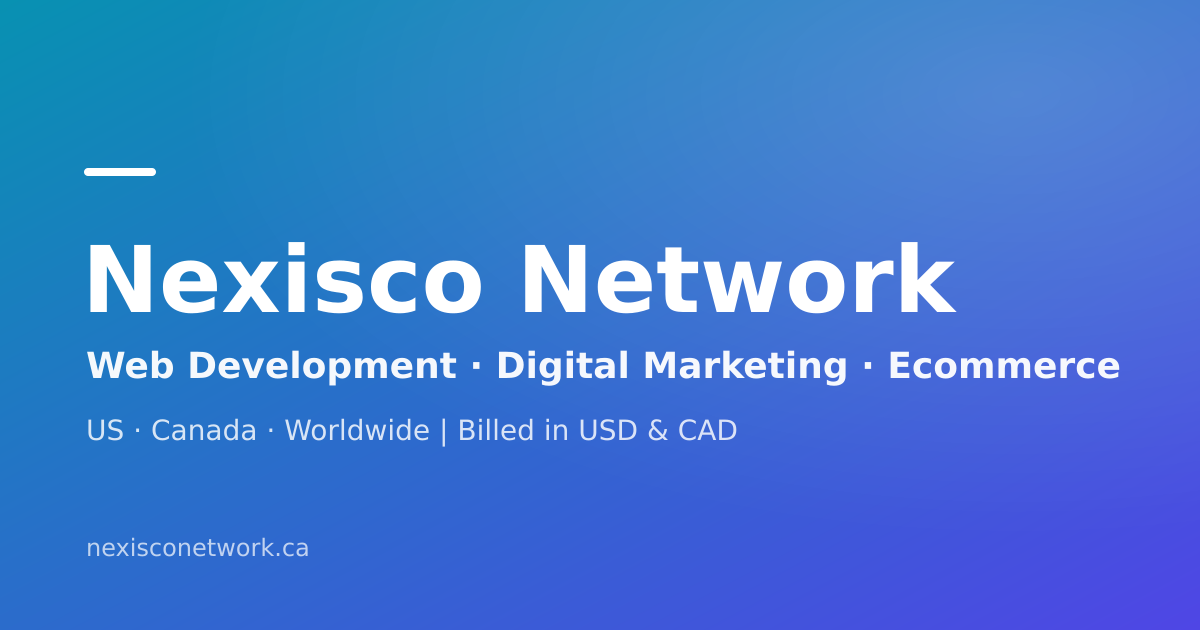
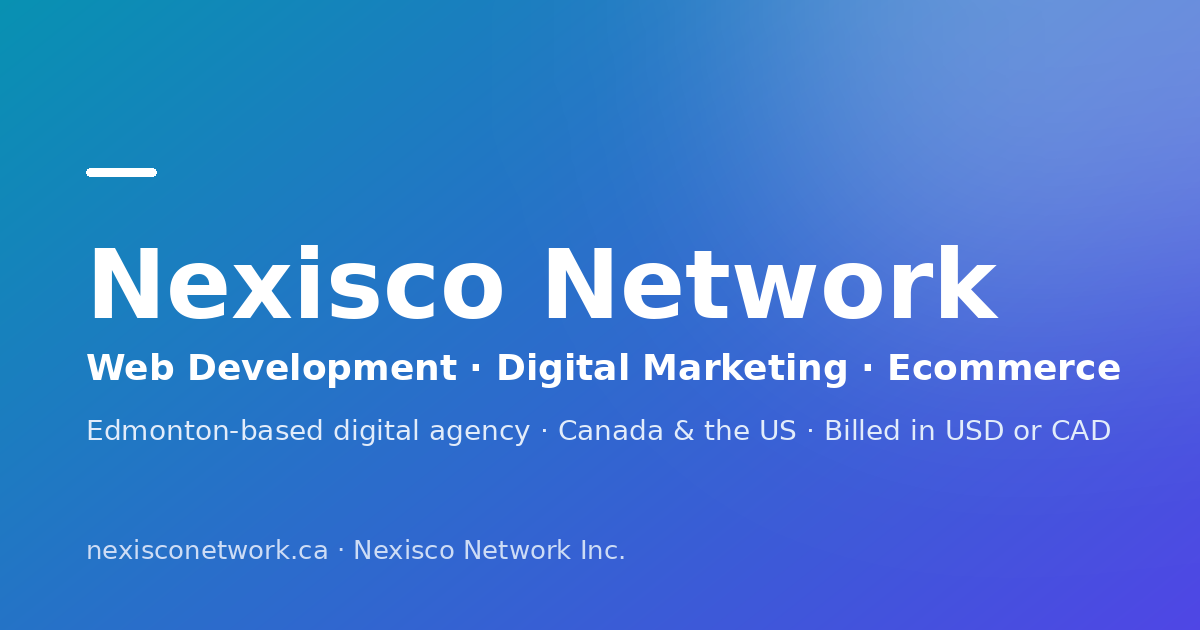
fix(review): corrected share image, people-free heroes, stricter guard
Fixes from the final independent review of the branch.

- og-image.png said "US · Canada · Worldwide | Billed in USD & CAD"; re-rendered
  with the module positioning ("Edmonton-based digital agency · Canada & the US ·
  Billed in USD or CAD") and the legal name; referenced as ?v=2 so social
  caches refresh.
- Homepage hero no longer uses a monitor photo the old portfolio presented as a
  client project; Partners hero no longer shows the same group of people as the
  old "team" photo. Both are people-free decorative images.
- 404/410 pages are noindex with no canonical/og:url; /portfolio 301 keeps its
  query string (gclid/utm); JSON-LD drops paymentAccepted (not a confirmed fact).
- .htaccess: deny whole config/includes/lib/data/pages/partials directories
  (closes the /pages/x.php/extra PATH_INFO bypass); allow 'unsafe-eval' so the
  standard Alpine build can run the FAQ accordions and currency toggle.
- robots.php loads helpers itself; newsletter welcome copy double period; About
  CTA no longer promises "the fastest path to growth"; drop the unused
  config/site-stats.php.
- compliance-check also bans global/worldwide/headquarters positioning, scans
  JSON-LD text, fails on internal links to /portfolio or retired IT URLs and on
  "Disallow: /*".

diff --git a/public_html/partials/head.php b/public_html/partials/head.php
@@ -8,7 +8,8 @@ require_once __DIR__ . '/../includes/seo.php';
 $page_title       = $page_title       ?? 'Nexisco Network — Web Development, Digital Marketing & Ecommerce Agency';
 $page_description = $page_description ?? business('brand_name') . ' is an ' . business('positioning') . ', delivering web development, digital marketing, and ecommerce development.';
 $page_canonical   = $page_canonical   ?? 'https://nexisconetwork.ca' . strtok($_SERVER['REQUEST_URI'] ?? '/', '?');
-$og_image         = $og_image         ?? 'https://nexisconetwork.ca/assets/img/og-image.png';
+$og_image         = $og_image         ?? 'https://nexisconetwork.ca/assets/img/og-image.png?v=2';
+$page_robots      = $page_robots      ?? 'index, follow, max-image-preview:large, max-snippet:-1, max-video-preview:-1';
 $theme_color      = '#0891B2';
 $page_keywords    = $page_keywords    ?? 'web development, web design, digital marketing agency, SEO, PPC, social media marketing, ecommerce development, Shopify, WooCommerce, conversion optimization, branding, Nexisco Network';
 $page_type        = $page_type        ?? 'website'; // override per page (article, service, etc.)
@@ -30,11 +31,13 @@ if (empty($_SESSION['csrf_token'])) {
   <title><?= htmlspecialchars($page_title, ENT_QUOTES, 'UTF-8') ?></title>
   <meta name="description" content="<?= htmlspecialchars($page_description, ENT_QUOTES, 'UTF-8') ?>">
   <meta name="keywords"    content="<?= htmlspecialchars($page_keywords, ENT_QUOTES, 'UTF-8') ?>">
+  <?php if ($page_canonical !== false): /* error pages set false: no canonical for a removed URL */ ?>
   <link rel="canonical"    href="<?= htmlspecialchars($page_canonical, ENT_QUOTES, 'UTF-8') ?>">
+  <?php endif; ?>
   <meta name="author"      content="Nexisco Network">
   <meta name="publisher"   content="Nexisco Network">
-  <meta name="robots"      content="index, follow, max-image-preview:large, max-snippet:-1, max-video-preview:-1">
-  <meta name="googlebot"   content="index, follow, max-image-preview:large, max-snippet:-1, max-video-preview:-1">
+  <meta name="robots"      content="<?= htmlspecialchars($page_robots, ENT_QUOTES, 'UTF-8') ?>">
+  <meta name="googlebot"   content="<?= htmlspecialchars($page_robots, ENT_QUOTES, 'UTF-8') ?>">
   <meta name="bingbot"     content="index, follow">
   <meta name="rating"      content="general">
   <meta name="format-detection" content="telephone=no">
@@ -48,7 +51,9 @@ if (empty($_SESSION['csrf_token'])) {
   <meta property="og:site_name"   content="Nexisco Network">
   <meta property="og:title"       content="<?= htmlspecialchars($page_title, ENT_QUOTES, 'UTF-8') ?>">
   <meta property="og:description" content="<?= htmlspecialchars($page_description, ENT_QUOTES, 'UTF-8') ?>">
+  <?php if ($page_canonical !== false): ?>
   <meta property="og:url"         content="<?= htmlspecialchars($page_canonical, ENT_QUOTES, 'UTF-8') ?>">
+  <?php endif; ?>
   <meta property="og:image"       content="<?= htmlspecialchars($og_image, ENT_QUOTES, 'UTF-8') ?>">
   <meta property="og:image:secure_url" content="<?= htmlspecialchars($og_image, ENT_QUOTES, 'UTF-8') ?>">
   <meta property="og:image:type"  content="image/png">

diff --git a/public_html/includes/seo.php b/public_html/includes/seo.php
@@ -25,7 +25,7 @@ class Seo {
                            . ', delivering web development, digital marketing, and ecommerce development.',
             'url'         => $url,
             'logo'        => $url . '/assets/img/logo.png',
-            'image'       => $url . '/assets/img/og-image.png',
+            'image'       => $url . '/assets/img/og-image.png?v=2',
             'telephone'   => business('phone_e164'),
             'email'       => business('email'),
             'foundingDate' => business('founding_date'),
@@ -50,7 +50,6 @@ class Seo {
             ]],
             'areaServed'         => self::area_served(),
             'currenciesAccepted' => 'USD, CAD',
-            'paymentAccepted'    => 'Credit Card, Debit Card, Online Payment, Bank Transfer',
             'hasOfferCatalog' => [
                 '@type' => 'OfferCatalog',
                 'name'  => 'Digital Services',

diff --git a/public_html/pages/partners.php b/public_html/pages/partners.php
@@ -12,7 +12,7 @@ require_once __DIR__ . '/../partials/navbar.php';
 <!-- ── Hero ──────────────────────────────────────────────────────── -->
 <section class="relative min-h-[60vh] flex items-end overflow-hidden grain" style="background:var(--bg-primary)">
   <div class="bg-media-wrapper" aria-hidden="true">
-    <img src="https://images.unsplash.com/photo-1521737711867-e3b97375f902?w=1920&q=60"
+    <img src="https://images.unsplash.com/photo-1460925895917-afdab827c52f?w=1920&q=60"
          alt="" loading="eager"
          style="opacity:0.55;width:100%;height:100%;object-fit:cover" data-parallax="-20">
     <div style="position:absolute;inset:0;background:linear-gradient(to bottom,rgba(250,251,252,0.5) 0%,rgba(250,251,252,0.97) 100%)"></div>

diff --git a/public_html/api/newsletter.php b/public_html/api/newsletter.php
@@ -47,7 +47,7 @@ $consent_ip        = client_ip();
 // Send welcome email (stub)
 $welcome = mail_template([
     'title'    => 'Welcome to Nexisco Network Updates',
-    'body'     => "<p>Thanks for subscribing! You'll receive web, marketing, and ecommerce insights and occasional offers from " . e(business('legal_name')) . ".</p>
+    'body'     => "<p>Thanks for subscribing! You'll receive web, marketing, and ecommerce insights and occasional offers from " . e(business('legal_name')) . "</p>
     <p>As promised — no spam. You can unsubscribe any time via the link below.</p>",
     'cta_text' => 'Unsubscribe',
     'cta_url'  => APP_URL . '/opt-in-opt-out',

diff --git a/public_html/pages/about.php b/public_html/pages/about.php
@@ -418,7 +418,7 @@ require_once __DIR__ . '/../partials/navbar.php';
   <div class="relative z-10 container-narrow text-center">
     <h2 class="text-h1 mb-4" data-split="words">Ready to grow with us?</h2>
     <p class="text-lg mb-8 max-w-xl mx-auto" style="color:var(--text-secondary)">
-      Tell us your goals and we'll map the fastest path to growth — in web, marketing, ecommerce, or all three.
+      Tell us your goals and we'll send a clear plan and a fixed, written quote — for web, marketing, ecommerce, or all three.
       Free quote, no obligation, billed in USD or CAD.
     </p>
     <div class="flex flex-wrap gap-4 justify-center">

diff --git a/public_html/pages/home.php b/public_html/pages/home.php
@@ -42,7 +42,7 @@ require_once __DIR__ . '/../partials/navbar.php';
       <?php /* NOTE (owner): add agency video sources (hero-bg.webm + hero-bg.mp4) */ ?>
     </video>
     <!-- Poster fallback -->
-    <img src="https://images.unsplash.com/photo-1559028012-481c04fa702d?w=1920&q=70"
+    <img src="https://images.unsplash.com/photo-1558591710-4b4a1ae0f04d?w=1920&q=70"
          alt=""
          style="position:absolute;inset:0;width:100%;height:100%;object-fit:cover;opacity:0.78"
          data-preload

diff --git a/public_html/pages/404.php b/public_html/pages/404.php
@@ -3,6 +3,8 @@ require_once __DIR__ . '/../includes/helpers.php';
 http_response_code(404);
 $page_title       = '404 — Page Not Found | Nexisco Network';
 $page_description = 'This page has moved or no longer exists. Explore our services, pricing, or start a project with Nexisco Network.';
+$page_robots      = 'noindex, follow';
+$page_canonical   = false;
 require_once __DIR__ . '/../partials/head.php';
 require_once __DIR__ . '/../partials/navbar.php';
 ?>

diff --git a/public_html/pages/410.php b/public_html/pages/410.php
@@ -3,6 +3,8 @@ require_once __DIR__ . '/../includes/helpers.php';
 http_response_code(410);
 $page_title       = '410 — Page Removed | Nexisco Network';
 $page_description = 'This page has been permanently removed.';
+$page_robots      = 'noindex, follow';
+$page_canonical   = false;
 require_once __DIR__ . '/../partials/head.php';
 require_once __DIR__ . '/../partials/navbar.php';
 ?>

diff --git a/public_html/index.php b/public_html/index.php
@@ -96,7 +96,9 @@ $redirects = [
     '/portfolio' => '/services',
 ];
 if (isset($redirects[$uri])) {
-    header('Location: ' . $redirects[$uri], true, 301);
+    // Keep the query string (e.g. gclid / utm_*) so ad clicks stay attributed.
+    $qs = $_SERVER['QUERY_STRING'] ?? '';
+    header('Location: ' . $redirects[$uri] . ($qs !== '' ? '?' . $qs : ''), true, 301);
     exit;
 }
 

diff --git a/public_html/robots.php b/public_html/robots.php
@@ -1,4 +1,5 @@
 <?php
+require_once __DIR__ . '/includes/helpers.php';
 header('Content-Type: text/plain; charset=utf-8');
 header('X-Robots-Tag: noindex');
 // Every public page is crawlable by everyone, Google's crawlers included
